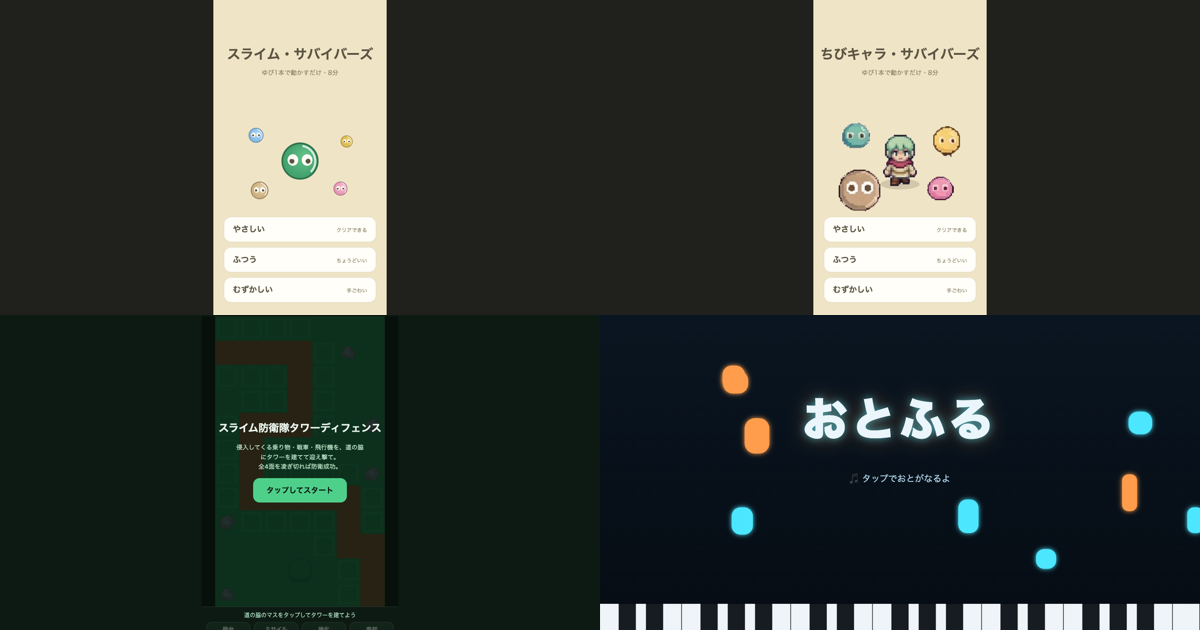
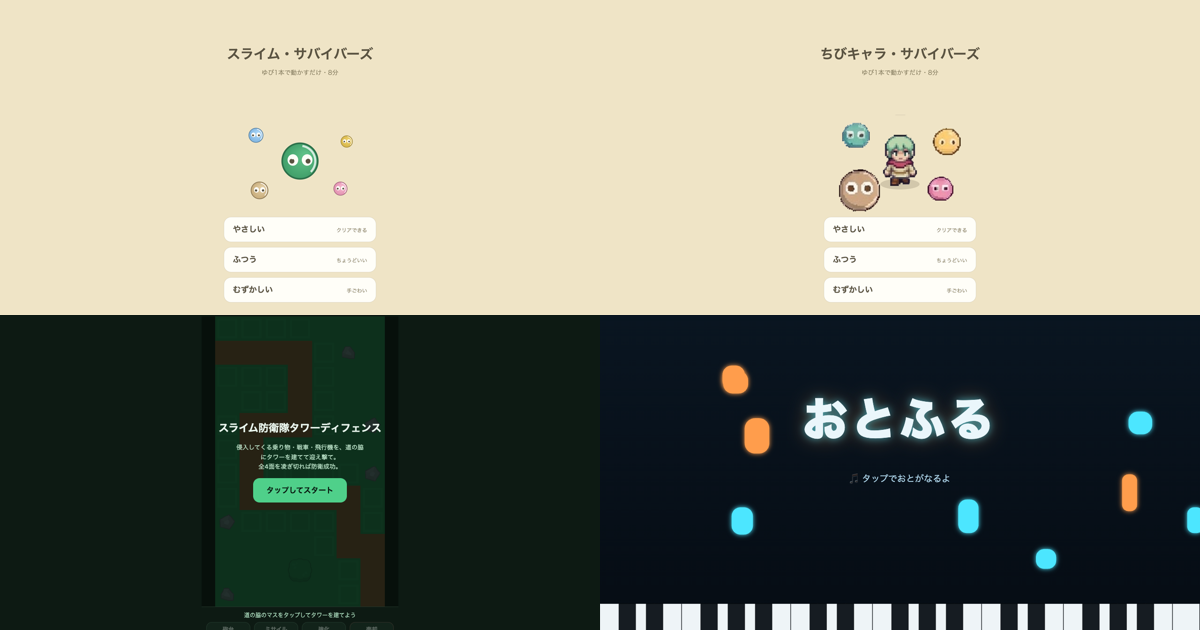
ポータル: 縦長サムネの余白を端色で塗る・タグボタン縮小・ジャンルのみに整理・外部リンクを末尾へ

diff --git a/index.html b/index.html
@@ -30,9 +30,9 @@
   header h1 { font-family:var(--font-head); font-size:28px; line-height:1.3; }
   header p { color:var(--sub); font-size:14px; margin-top:8px; }
   .tags { display:flex; flex-wrap:wrap; gap:8px; margin:24px 0; }
-  .tags button { font:inherit; font-family:var(--font-head); font-size:19px; font-weight:700; line-height:24px; padding:8px 16px;
+  .tags button { font:inherit; font-family:var(--font-body); font-size:15px; font-weight:500; line-height:20px; height:36px; padding:0 16px;
     background:var(--card); color:var(--text); border:1px solid var(--line); border-radius:999px; cursor:pointer; }
-  .tags button[aria-pressed="true"] { background:var(--accent); border-color:var(--accent); color:#fff; }
+  .tags button[aria-pressed="true"] { background:var(--text); border-color:var(--text); color:#fff; }
   .grid { display:grid; grid-template-columns:repeat(auto-fill, minmax(260px,1fr)); gap:24px; }
   .card { display:flex; flex-direction:column; background:var(--card); border:1px solid var(--line); border-radius:12px; overflow:hidden;
     text-decoration:none; box-shadow:0 1px 2px rgba(35,48,63,.06); }
@@ -84,20 +84,20 @@ const SITE = {
 };
 
 /* 新作を足すには、下の1件をコピーして GAMES の先頭か末尾に貼り、書き換える。
-   並びは date の新しい順に自動で決まる。
+   並びは「サイト内ゲーム→外部リンク」の順で、それぞれ date の新しい順に自動で決まる。
    { id: "半角英数とハイフン（URLに使う・重複不可）",
      title: "タイトル", date: "YYYY-MM-DD", tags: ["タグ", ...], catch: "ひとこと",
      img: "img/games/<id>.webp",            // サムネ 16:10（1280x800 など）
      play: "xxx.html" }                     // このサイト内のHTML → プレイ画面で開く
    外部サイトなら play の代わりに  url: "https://..."  と書く（別タブで開く）。 */
 const GAMES = [
-  { id:"slime-survivors", title:"スライム・サバイバーズ", date:"2026-09-24", tags:["アクション","8分1ラン"],
+  { id:"slime-survivors", title:"スライム・サバイバーズ", date:"2026-09-24", tags:["アクション"],
     catch:"見下ろし視点でひたすら逃げまわる自動攻撃サバイバー。ゆび1本で動かすだけ、8分間生き延びろ。",
     img:"img/games/slime-survivors.webp", play:"slime-survivors.html" },
-  { id:"chibi-survivors", title:"ちびキャラ・サバイバーズ", date:"2026-09-24", tags:["アクション","8分1ラン"],
+  { id:"chibi-survivors", title:"ちびキャラ・サバイバーズ", date:"2026-09-24", tags:["アクション"],
     catch:"主人公を8方向に歩くドット絵のちびキャラにした版。ルールは同じ、ゆび1本で8分間。",
     img:"img/games/chibi-survivors.webp", play:"chibi-survivors.html" },
-  { id:"slime-tower", title:"スライム防衛隊タワーディフェンス", date:"2026-09-24", tags:["タワーディフェンス","全4ステージ"],
+  { id:"slime-tower", title:"スライム防衛隊タワーディフェンス", date:"2026-09-24", tags:["タワーディフェンス"],
     catch:"道の脇のマスをタップしてタワーを建設。乗り物・戦車・飛行機を迎え撃ち、全4面を守りきれ。",
     img:"img/games/slime-tower.webp", play:"slime-tower.html" },
   { id:"slime-basket", title:"スライム・イン・かご", date:"2026-09-24", tags:["スコアアタック"],
@@ -124,7 +124,7 @@ function el(tag, attrs, ...kids) {
 function renderList() {
   document.title = SITE.name;
   const tags = [...new Set(GAMES.flatMap(g => g.tags))];
-  const sorted = [...GAMES].sort((a, b) => b.date.localeCompare(a.date));
+  const sorted = [...GAMES].sort((a, b) => (!!a.url - !!b.url) || b.date.localeCompare(a.date));
 
   const tagBar = el("div", { class:"tags", role:"group", "aria-label":"タグで絞り込む" });
   ["", ...tags].forEach(t => {
